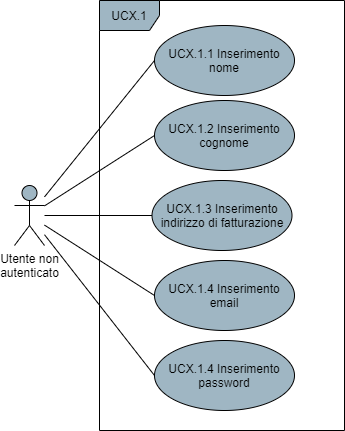
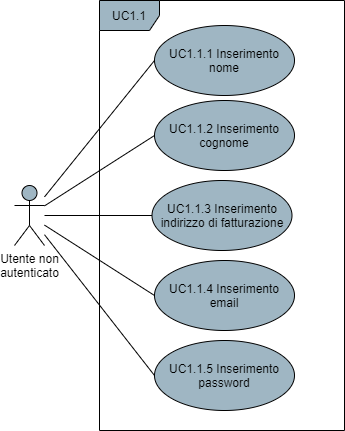
modificate immagini, aggiornato registro modifiche, indici per tabelle e figure

diff --git a/DocumentazioneEsterna/AnalisiDeiRequisiti/res/DiarioModifiche.tex b/DocumentazioneEsterna/AnalisiDeiRequisiti/res/DiarioModifiche.tex
@@ -15,7 +15,7 @@
 \textbf{Descrizione}\\
 \endhead
 
-0.0.5 & 2021-01-04 & \MB & \analProg & Stesura UCX \\
+0.0.6 & 2021-01-04 & \MB & \analProg & Stesura UC1, UC2, UC6, UC8, UC13, UC14 \\
 0.0.5 & 2021-01-02 & \GB & \analProg & Stesura da \S{3.2.64} a \S{4.3} \\
 0.0.4 & 2020-12-26 & \MB & \analProg & Stesura requisiti (\S{4}) \\
 0.0.3 & 2020-12-24 & \MB & \analProg & Aggiunta introduzione e struttura a \S{4} \\

diff --git a/DocumentazioneEsterna/AnalisiDeiRequisiti/AnalisiDeiRequisiti.tex b/DocumentazioneEsterna/AnalisiDeiRequisiti/AnalisiDeiRequisiti.tex
@@ -15,6 +15,11 @@
 \newpage
 \tableofcontents
 \newpage
+\listoffigures
+\newpage
+\listoftables
+\newpage
+
 
 \input{res/Introduzione/introduzione}
 
